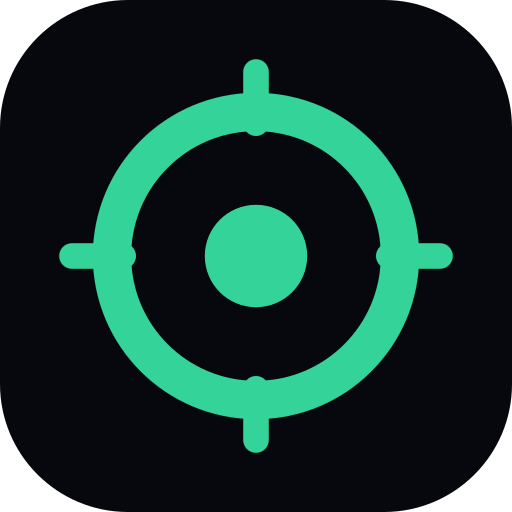
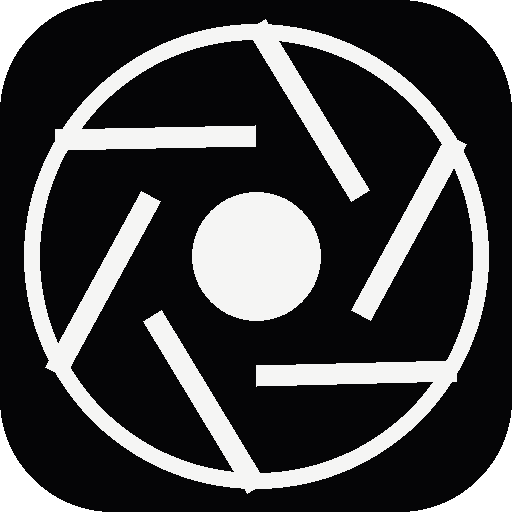
Use the landing aperture mark on the scorecard.
The header, favicon, Open Graph image, and Blink icon share the landing logo. The scorecard colors, type, and layout stay as they are.

diff --git a/apps/web/components/site-header.tsx b/apps/web/components/site-header.tsx
@@ -3,6 +3,7 @@
 import { useEffect, useState } from "react";
 import Link from "next/link";
 import { usePathname } from "next/navigation";
+import { ApertureMark } from "@/components/logo";
 
 const NAV = [
   { href: "/", label: "Record" },
@@ -37,9 +38,8 @@ export function SiteHeader() {
   return (
     <header className="sticky top-0 z-30 border-b border-line bg-paper">
       <div className="mx-auto flex max-w-6xl items-center justify-between gap-3 px-4 py-3 sm:px-6">
-        <Link href="/" className="flex items-center gap-2.5">
-          {/* eslint-disable-next-line @next/next/no-img-element */}
-          <img src="/mark.svg" alt="" width={28} height={28} className="size-7" />
+        <Link href="/" className="flex items-center gap-2.5 text-ink">
+          <ApertureMark />
           <span className="font-serif text-xl tracking-tight">Lens</span>
         </Link>
         <nav className="hidden items-center gap-1 md:flex" aria-label="Primary">

diff --git a/apps/web/app/icon.tsx b/apps/web/app/icon.tsx
@@ -1,0 +1,37 @@
+import { ImageResponse } from "next/og";
+
+export const size = { width: 64, height: 64 };
+export const contentType = "image/png";
+
+export default function Icon() {
+  return new ImageResponse(
+    (
+      <div
+        style={{
+          width: "100%",
+          height: "100%",
+          display: "flex",
+          alignItems: "center",
+          justifyContent: "center",
+          background: "#050506",
+          borderRadius: 14,
+        }}
+      >
+        <div
+          style={{
+            width: 44,
+            height: 44,
+            borderRadius: 44,
+            border: "4px solid #f5f5f4",
+            display: "flex",
+            alignItems: "center",
+            justifyContent: "center",
+          }}
+        >
+          <div style={{ width: 14, height: 14, borderRadius: 14, background: "#f5f5f4" }} />
+        </div>
+      </div>
+    ),
+    size,
+  );
+}

diff --git a/apps/web/components/logo.tsx b/apps/web/components/logo.tsx
@@ -1,0 +1,21 @@
+import { cn } from "@/lib/utils";
+
+/** Same aperture mark as the landing page. Strokes follow currentColor. */
+export function ApertureMark({ className }: { className?: string }) {
+  return (
+    <svg viewBox="0 0 32 32" fill="none" aria-hidden className={cn("size-7", className)}>
+      <circle cx="16" cy="16" r="14.5" stroke="currentColor" strokeOpacity=".9" />
+      {[0, 60, 120, 180, 240, 300].map((deg) => (
+        <path
+          key={deg}
+          d="M16 1.5 L22.5 12.2"
+          stroke="currentColor"
+          strokeWidth="1.4"
+          strokeLinecap="round"
+          transform={`rotate(${deg} 16 16)`}
+        />
+      ))}
+      <circle cx="16" cy="16" r="4" fill="currentColor" />
+    </svg>
+  );
+}

diff --git a/apps/web/app/opengraph-image.tsx b/apps/web/app/opengraph-image.tsx
@@ -24,16 +24,14 @@ export default function OpenGraphImage() {
             style={{
               width: "48px",
               height: "48px",
-              borderRadius: "24px",
-              border: "3px solid #3ddc97",
+              borderRadius: "48px",
+              border: "3px solid #f5f5f4",
               display: "flex",
               alignItems: "center",
               justifyContent: "center",
-              color: "#3ddc97",
-              fontSize: "22px",
             }}
           >
-            •
+            <div style={{ width: "14px", height: "14px", borderRadius: "14px", background: "#f5f5f4" }} />
           </div>
           Lens
         </div>

diff --git a/docs/STATUS.md b/docs/STATUS.md
@@ -18,7 +18,7 @@ X replies, outbound posts, and warning DMs are link-free unless `X_REPLY_LINKS=t
 
 ## Landing page, 2026-10-08
 
-`apps/landing` (`@lens/landing`, port 3848, `npm run dev:landing`) is a static marketing page. It does not call any API, wallet, or X. Links to the record, `/verify`, `/check`, and `/pro` use `NEXT_PUBLIC_APP_URL`. The handle is `NEXT_PUBLIC_X_HANDLE` (default `justasklens`).
+`apps/landing` (`@lens/landing`, port 3848, `npm run dev:landing`) is a static marketing page. It does not call any API, wallet, or X. Links to the record, `/verify`, `/check`, and `/pro` use `NEXT_PUBLIC_APP_URL`. The handle is `NEXT_PUBLIC_X_HANDLE` (default `justasklens`). The scorecard header uses the same aperture mark. The favicon matches the landing icon. `mark.png` is that mark for Blinks.
 
 | Part | Status | Notes |
 | --- | --- | --- |
